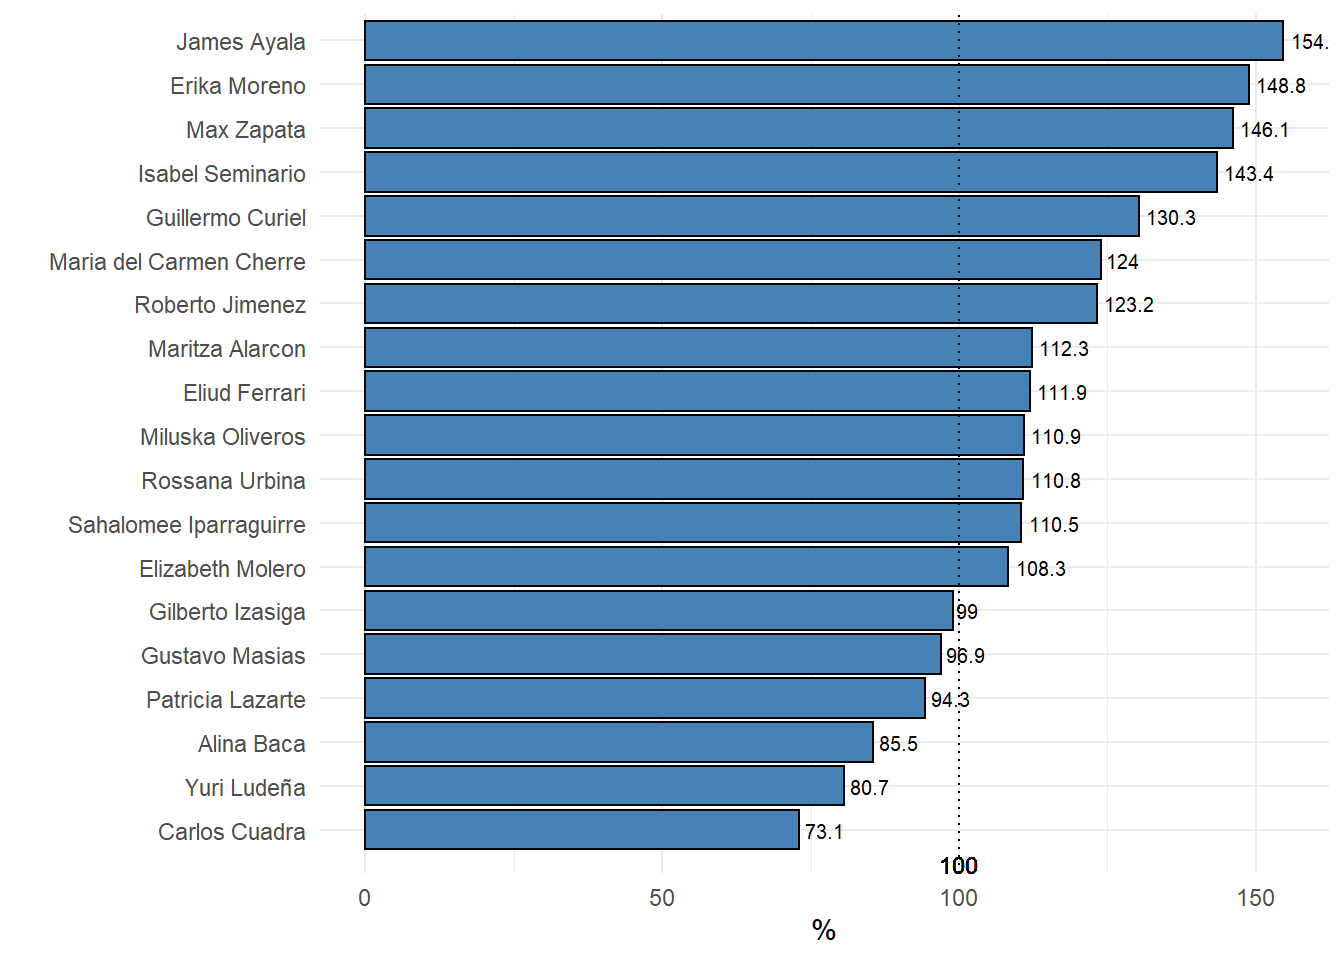
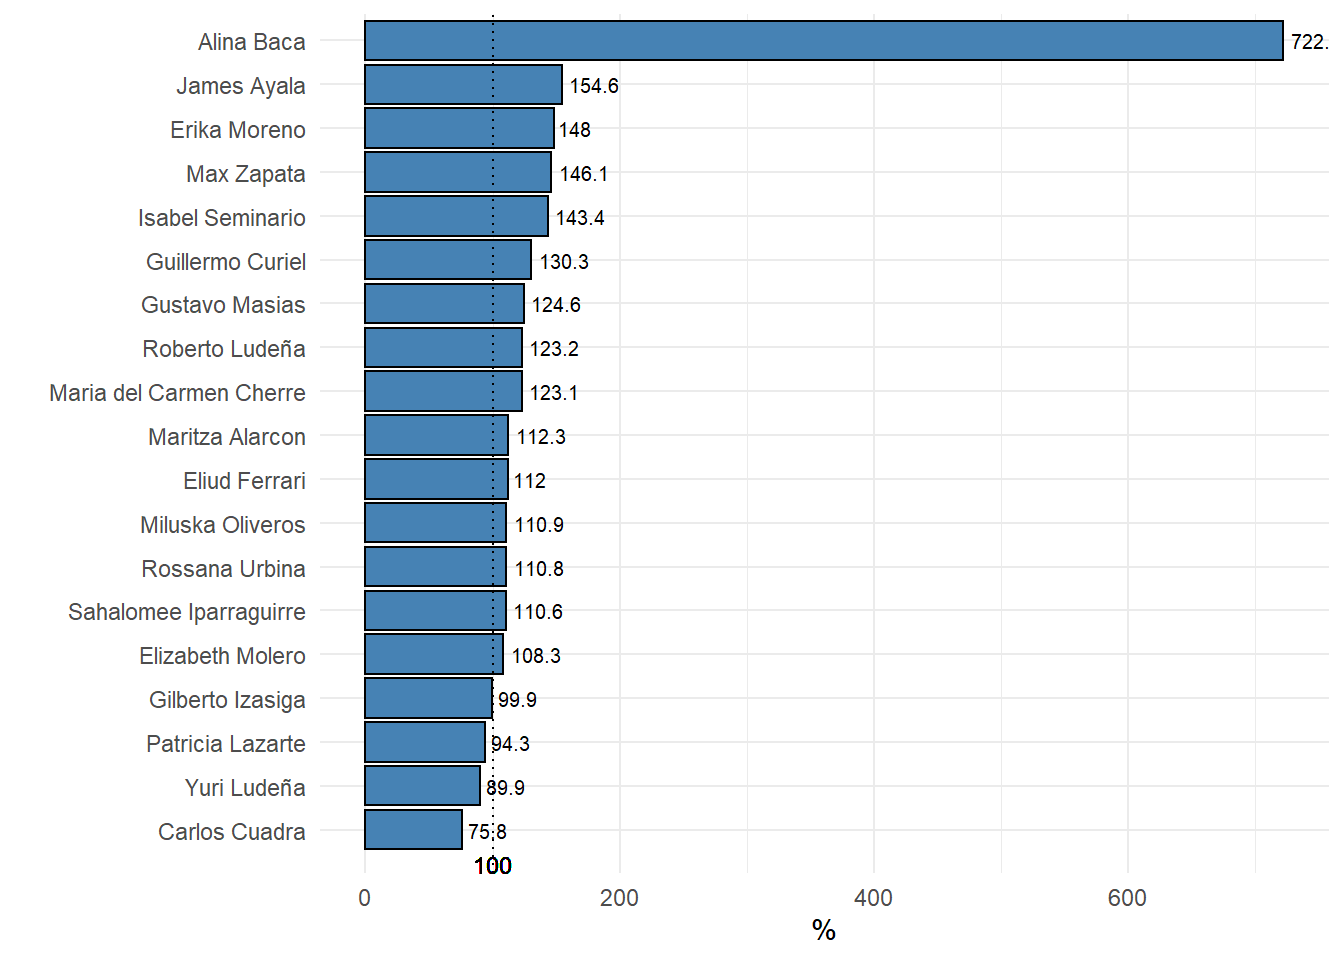
ss
ss

diff --git a/docs/Journal.html b/docs/Journal.html
@@ -381,7 +381,7 @@ METRONIC
 DIFARLIB
 </td>
 <td style="text-align:center;">
-2021-11-29
+2021-12-01
 </td>
 </tr>
 <tr>
@@ -458,7 +458,7 @@ CALLAO
 Maria del Carmen Cherre
 </td>
 <td style="text-align:right;font-weight: bold;color: black !important;background-color: green !important;">
-124.0
+123.1
 </td>
 <td style="text-align:right;">
 123.6
@@ -473,7 +473,7 @@ NA
 145.4
 </td>
 <td style="text-align:right;">
-117.5
+115.2
 </td>
 </tr>
 <tr>
@@ -484,7 +484,7 @@ ESTE
 Gilberto Izasiga
 </td>
 <td style="text-align:right;font-weight: bold;color: black !important;background-color: yellow !important;">
-99.0
+99.9
 </td>
 <td style="text-align:right;">
 159.2
@@ -593,7 +593,7 @@ CALLAO
 Erika Moreno
 </td>
 <td style="text-align:right;font-weight: bold;color: black !important;background-color: green !important;">
-148.8
+148.0
 </td>
 <td style="text-align:right;">
 206.6
@@ -608,7 +608,7 @@ Erika Moreno
 157.7
 </td>
 <td style="text-align:right;">
-117.5
+115.2
 </td>
 </tr>
 <tr>
@@ -697,7 +697,7 @@ SUR
 Eliud Ferrari
 </td>
 <td style="text-align:right;font-weight: bold;color: black !important;background-color: green !important;">
-111.9
+112.0
 </td>
 <td style="text-align:right;">
 178.0
@@ -727,23 +727,23 @@ NORTE GRANDE A
 <td style="text-align:left;">
 Gustavo Masias
 </td>
-<td style="text-align:right;font-weight: bold;color: black !important;background-color: yellow !important;">
-96.9
+<td style="text-align:right;font-weight: bold;color: black !important;background-color: green !important;">
+124.6
 </td>
 <td style="text-align:right;">
-81.9
+124.3
 </td>
 <td style="text-align:right;">
-170.4
+204.0
 </td>
 <td style="text-align:right;">
-80.6
+97.5
 </td>
 <td style="text-align:right;">
-93.4
+142.7
 </td>
 <td style="text-align:right;">
-108.2
+118.9
 </td>
 </tr>
 <tr>
@@ -754,22 +754,22 @@ NORTE GRANDE B
 Yuri Ludeña
 </td>
 <td style="text-align:right;font-weight: bold;color: black !important;background-color: yellow !important;">
-80.7
+89.9
 </td>
 <td style="text-align:right;">
-89.4
+91.4
 </td>
 <td style="text-align:right;">
-186.3
+189.8
 </td>
 <td style="text-align:right;">
 83.1
 </td>
 <td style="text-align:right;">
-80.4
+84.5
 </td>
 <td style="text-align:right;">
-73.2
+87.5
 </td>
 </tr>
 <tr>
@@ -780,10 +780,10 @@ NORTE MEDIO
 Carlos Cuadra
 </td>
 <td style="text-align:right;font-weight: bold;color: black !important;background-color: red !important;">
-73.1
+75.8
 </td>
 <td style="text-align:right;">
-136.8
+141.1
 </td>
 <td style="text-align:right;">
 233.4
@@ -792,10 +792,10 @@ Carlos Cuadra
 46.1
 </td>
 <td style="text-align:right;">
-127.5
+135.2
 </td>
 <td style="text-align:right;">
-54.8
+56.8
 </td>
 </tr>
 <tr>
@@ -803,7 +803,7 @@ Carlos Cuadra
 SUR GRANDE
 </td>
 <td style="text-align:left;">
-Roberto Jimenez
+Roberto Ludeña
 </td>
 <td style="text-align:right;font-weight: bold;color: black !important;background-color: green !important;">
 123.2
@@ -888,11 +888,11 @@ CALLAO
 <td style="text-align:left;">
 Alina Baca
 </td>
-<td style="text-align:right;font-weight: bold;color: black !important;background-color: yellow !important;">
-85.5
+<td style="text-align:right;font-weight: bold;color: black !important;background-color: green !important;">
+722.1
 </td>
 <td style="text-align:right;">
-103.2
+2649.6
 </td>
 <td style="text-align:right;">
 40.5
@@ -915,7 +915,7 @@ SUR
 Sahalomee Iparraguirre
 </td>
 <td style="text-align:right;font-weight: bold;color: black !important;background-color: green !important;">
-110.5
+110.6
 </td>
 <td style="text-align:right;">
 173.0
@@ -1014,7 +1014,7 @@ CALLAO
 Maria del Carmen Cherre
 </td>
 <td style="text-align:left;font-weight: bold;color: black !important;background-color: green !important;">
-64,995
+64,538
 </td>
 <td style="text-align:left;">
 16,434
@@ -1029,7 +1029,7 @@ NA
 21,106
 </td>
 <td style="text-align:left;">
-23,059
+22,602
 </td>
 </tr>
 <tr>
@@ -1081,7 +1081,7 @@ NA
 11,964
 </td>
 <td style="text-align:left;">
-116,553
+116,552
 </td>
 </tr>
 <tr>
@@ -1118,7 +1118,7 @@ SUR
 Rossana Urbina
 </td>
 <td style="text-align:left;font-weight: bold;color: black !important;background-color: green !important;">
-83,339
+83,378
 </td>
 <td style="text-align:left;">
 38,346
@@ -1149,7 +1149,7 @@ CALLAO
 Erika Moreno
 </td>
 <td style="text-align:left;font-weight: bold;color: black !important;background-color: green !important;">
-83,305
+82,847
 </td>
 <td style="text-align:left;">
 32,972
@@ -1164,7 +1164,7 @@ Erika Moreno
 20,746
 </td>
 <td style="text-align:left;">
-23,059
+22,602
 </td>
 </tr>
 <tr>
@@ -1184,7 +1184,7 @@ Miluska Oliveros
 7,483
 </td>
 <td style="text-align:left;">
-5,913
+5,914
 </td>
 <td style="text-align:left;">
 39,394
@@ -1201,7 +1201,7 @@ NORTE
 Max Zapata
 </td>
 <td style="text-align:left;font-weight: bold;color: black !important;background-color: green !important;">
-166,347
+166,348
 </td>
 <td style="text-align:left;">
 24,010
@@ -1216,7 +1216,7 @@ Max Zapata
 13,906
 </td>
 <td style="text-align:left;">
-116,553
+116,552
 </td>
 </tr>
 <tr>
@@ -1253,7 +1253,7 @@ SUR
 Eliud Ferrari
 </td>
 <td style="text-align:left;font-weight: bold;color: black !important;background-color: green !important;">
-76,608
+76,646
 </td>
 <td style="text-align:left;">
 22,965
@@ -1283,23 +1283,23 @@ NORTE GRANDE A
 <td style="text-align:left;">
 Gustavo Masias
 </td>
-<td style="text-align:left;font-weight: bold;color: black !important;background-color: yellow !important;">
-159,869
+<td style="text-align:left;font-weight: bold;color: black !important;background-color: green !important;">
+205,584
 </td>
 <td style="text-align:left;">
-42,860
+65,048
 </td>
 <td style="text-align:left;">
-7,574
+9,070
 </td>
 <td style="text-align:left;">
-11,408
+13,798
 </td>
 <td style="text-align:left;">
-23,110
+35,318
 </td>
 <td style="text-align:left;">
-74,917
+82,350
 </td>
 </tr>
 <tr>
@@ -1310,22 +1310,22 @@ NORTE GRANDE B
 Yuri Ludeña
 </td>
 <td style="text-align:left;font-weight: bold;color: black !important;background-color: yellow !important;">
-102,403
+114,102
 </td>
 <td style="text-align:left;">
-18,573
+18,992
 </td>
 <td style="text-align:left;">
-5,958
+6,069
 </td>
 <td style="text-align:left;">
 11,203
 </td>
 <td style="text-align:left;">
-12,768
+13,426
 </td>
 <td style="text-align:left;">
-53,901
+64,411
 </td>
 </tr>
 <tr>
@@ -1336,10 +1336,10 @@ NORTE MEDIO
 Carlos Cuadra
 </td>
 <td style="text-align:left;font-weight: bold;color: black !important;background-color: red !important;">
-133,558
+138,469
 </td>
 <td style="text-align:left;">
-28,517
+29,408
 </td>
 <td style="text-align:left;">
 4,773
@@ -1348,10 +1348,10 @@ Carlos Cuadra
 7,465
 </td>
 <td style="text-align:left;">
-24,781
+26,279
 </td>
 <td style="text-align:left;">
-68,022
+70,545
 </td>
 </tr>
 <tr>
@@ -1359,7 +1359,7 @@ Carlos Cuadra
 SUR GRANDE
 </td>
 <td style="text-align:left;">
-Roberto Jimenez
+Roberto Ludeña
 </td>
 <td style="text-align:left;font-weight: bold;color: black !important;background-color: green !important;">
 182,064
@@ -1444,11 +1444,11 @@ CALLAO
 <td style="text-align:left;">
 Alina Baca
 </td>
-<td style="text-align:left;font-weight: bold;color: black !important;background-color: yellow !important;">
-87,391
+<td style="text-align:left;font-weight: bold;color: black !important;background-color: green !important;">
+738,238
 </td>
 <td style="text-align:left;">
-26,386
+677,233
 </td>
 <td style="text-align:left;">
 4,136
@@ -1471,7 +1471,7 @@ SUR
 Sahalomee Iparraguirre
 </td>
 <td style="text-align:left;font-weight: bold;color: black !important;background-color: green !important;">
-116,874
+116,912
 </td>
 <td style="text-align:left;">
 45,727
@@ -1483,7 +1483,7 @@ Sahalomee Iparraguirre
 3,522
 </td>
 <td style="text-align:left;">
-29,991
+29,990
 </td>
 <td style="text-align:left;">
 30,137
